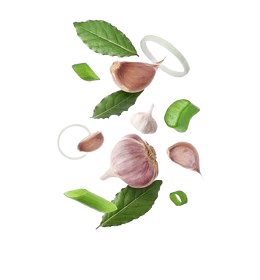
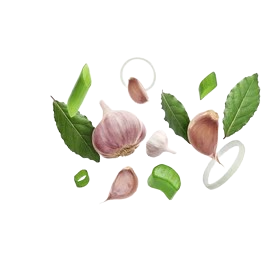
cleaned up the database mess

Changed region(s): [[0.1846, 0.0615, 0.9538, 0.8308]]

diff --git a/apps/ai_chef/app/signup/page.tsx b/apps/ai_chef/app/signup/page.tsx
@@ -1,33 +1,9 @@
-'use client'
-import Buttoncustom from "@/ui/button";
-import InputBox from "@/ui/inputbox";
-import Link from "next/link";
-import { useState } from "react";
-import { useRouter } from "next/navigation";
-import axios from "axios"
+import button from "@repo/ui"
 export default function Signup(){
-    const [username,setusername]=useState("")
-    const [password,setpassword]=useState("")
-    const [email,setemail]=useState("")
-    const Router=useRouter();
     return(
-        <div className="bg-gray-200 w-screen h-screen flex items-center justify-center">
-            <div className="bg-white h-105 w-80 rounded-2xl px-10 py-10 shadow-lg">
-                <h1 className="text-bold px-20 pb-5">Sign Up</h1>
-                <InputBox value={username} inputtype="text" inputplaceholder="enter your username" onchangehandler={(e)=>{setusername(e.target.value)}}/>
-                <InputBox value={password} inputtype="password" inputplaceholder="enter your password" onchangehandler={(e)=>{setpassword(e.target.value)}}/>
-                <InputBox value={email} inputplaceholder="enter your email" inputtype="text" onchangehandler={(e)=>{setemail(e.target.value)}}/>
-                <Buttoncustom name="Signup" onClickhandler={
-                        async() => {
-                        await axios.post("http://localhost:3001/api/v1/user/signup", {
-                            email,
-                            password,
-                            username
-                        }).then((response) => {
-                            Router.push("/signin")
-                        })
-                    }}/>
-                <h6 className="py-4 px-2">Already have an accout? <Link href="/signin" className="text-blue-600 cursor-pointer hover:text-blue-800">Sign in</Link></h6>
+        <div className="bg-paper flex w-screen h-screen justify-center items-center">
+            <div className="isolate aspect-video w-96 rounded-xl bg-white/20 shadow-lg ring-1 ring-black/5">
+                    button
             </div>
         </div>
     )

diff --git a/apps/ai_chef/components/body.tsx b/apps/ai_chef/components/body.tsx
@@ -6,12 +6,18 @@ import { useRouter } from 'next/navigation'
 export default function Mainbody() {
   const dumplingRef = useRef(null);
   const Router=useRouter();
+  const spiceref=useRef(null)
   useGSAP(() => {
     gsap.fromTo(
       dumplingRef.current,
       {xPercent: 100, autoAlpha: 0    }, 
       {xPercent: 0, autoAlpha: 1, duration: 1,ease: "power1.out"}
     );
+    gsap.fromTo(
+      spiceref.current,
+      {xPercent:-100,autoAlpha:0},
+      {xPercent:0,autoAlpha:1,duration:1,ease:"power1.out"}
+    )
   }, []);
 
   return (
@@ -29,7 +35,7 @@ export default function Mainbody() {
       </div>
 
       {/* Top-Left Spices */}
-      <img src="/spoon-spices.png" alt="Spices" className="absolute left-10 top-20 w-44 z-10 pointer-events-none" />
+      <img src="/spices.png" alt="Spices" ref={spiceref} className="absolute left-10 top-20 w-44 z-10 pointer-events-none" />
       {/* Top-Right Tomatoes */}
       <img src="/tomato-vine.png" alt="Tomatoes" className="absolute right-10 top-24 w-24 z-10 pointer-events-none" />
       {/* Bottom-Left Sauce Bowl */}
@@ -62,11 +68,7 @@ export default function Mainbody() {
             alt="Dumplings on Plate"
             className="w-[540px] z-20"
           />
-          <img
-            src="/chopsticks.png"
-            alt="Chopsticks"
-            className="absolute left-8 top-10 w-[180px] sm:w-[200px] z-30"
-          />
+
         </div>
       </div>
     </div>

diff --git a/apps/http_server/src/recipe.ts b/apps/http_server/src/recipe.ts
@@ -24,9 +24,12 @@ reciperouter.post("/addrecipe",middleware,async(req:Authrequest,res:Response)=>{
     await prismaclient.recipe.create({
         data:{
             Description:parseddata.data?.description,
+            Type:parseddata.data.Type,
             Title:parseddata.data.title,
             ImageUrl:parseddata.data.imageurl,
-            userId:userId
+            userId:userId,
+            Likes:0,
+            Dislikes:0
         }
     })
     res.json({

diff --git a/packages/ui/src/button.tsx b/packages/ui/src/button.tsx
@@ -11,8 +11,9 @@ interface ButtonProps {
 export const Button = ({ children, className, appName }: ButtonProps) => {
   return (
     <button
-      className={className}
+      className="ml-3 px-6 py-2 border-2 border-[#ff7a27] text-[#ff7a27] rounded-full font-semibold hover:bg-[#ff7a27] hover:text-white transition cursor-pointer w-50"
       onClick={() => alert(`Hello from your ${appName} app!`)}
+    
     >
       {children}
     </button>

diff --git a/apps/http_server/src/user.ts b/apps/http_server/src/user.ts
@@ -20,7 +20,9 @@ userrouter.post("/signup", async (req, res) => {
       data: {
         username:parseddata.data?.username,
         email:parseddata.data.email,
-        password:hashedpassword
+        password:hashedpassword,
+        likes:0,
+        dislikes:0
       }
     });
   } catch (err) {

diff --git a/apps/ai_chef/constants/index.ts b/apps/ai_chef/constants/index.ts
@@ -1,16 +1,2 @@
-export const navLinks = [
- 
- {
-	id: "Recipes",
-	title: "Recipes",
- },
- {
-	id: "Ask AI",
-	title: "Ask_AI",
- },
- {
-	id: "contact",
-	title: "Contact",
- },
- 
-];
+//TODO
+//SHould have all the details and other jargon

diff --git a/apps/http_server/src/types.ts b/apps/http_server/src/types.ts
@@ -17,5 +17,6 @@ export const UpdateSchema=z.object({
 export const RecipeSchme =z.object({
     title:z.string().max(50),
     description:z.string().max(1000),
-    imageurl:z.string()
+    imageurl:z.string(),
+    Type:z.string()
 })
